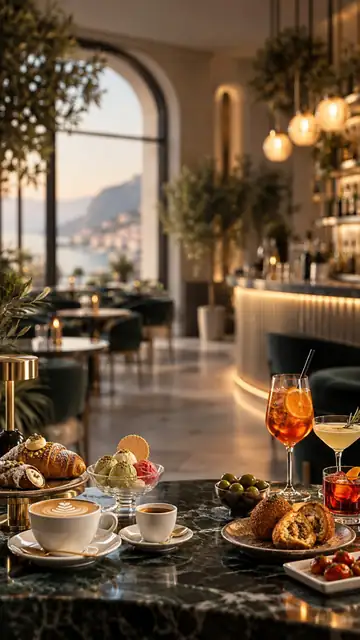
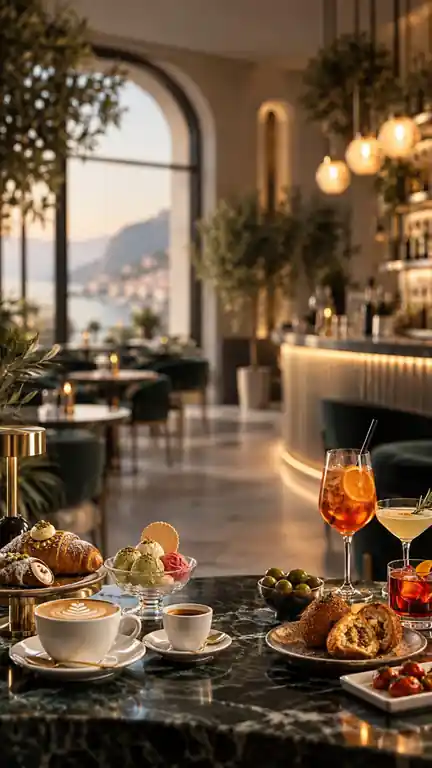
Install selected Bar extra background

diff --git a/personalizza.html b/personalizza.html
@@ -578,7 +578,7 @@ previewBtn.addEventListener("click", async () => {
       const backgroundDataUrl = await loadBackgroundDataUrl("Sfondobar.png");
       previewHtml = buildBarTemplate(logoDataUrl, reviewUrl, backgroundDataUrl);
     } else if (type === "barextra") {
-      const backgroundDataUrl = await loadBackgroundDataUrl("Sfondobarextra.webp?v=20260911-0015");
+      const backgroundDataUrl = await loadBackgroundDataUrl("Sfondobarextra.webp?v=20260911-0035");
       previewHtml = buildPremiumTemplate(logoDataUrl, reviewUrl, backgroundDataUrl, {title:"Le nostre specialità ti hanno conquistato?", accent:"#ead9bd", accent2:"#c9ae84", theme:"#18221f", box:"rgba(18,20,18,.40)", text:"#ffffff", message:"Dalla colazione all’aperitivo, prepariamo ogni giorno delizie e prodotti genuini per rendere speciale ogni momento. Raccontaci la tua esperienza! Bastano 2 secondi!", shift:"none", footerSize:"9px", footerStrong:"18px"});
       previewHtml = previewHtml.replace("<body>", `<body><img class="barextra-scene" src="${backgroundDataUrl}" alt="">`);
       previewHtml = previewHtml.replace("</head>", `<style id="barextra-layout-standard">html{background:#18221f!important}body{background-color:#18221f!important;overflow-x:hidden!important}.barextra-scene{position:fixed!important;inset:0!important;width:100vw!important;height:100vh!important;height:100dvh!important;object-fit:cover!important;object-position:center top!important;z-index:0!important;pointer-events:none!important}.pagina{position:relative!important;z-index:1!important;background-color:transparent!important}.pagina:before,.pagina:after{display:none!important;content:none!important;background:none!important}.logo{background:transparent!important;border:none!important;box-shadow:none!important;padding:0!important;border-radius:0!important;max-height:108px!important;width:min(220px,58vw)!important;object-fit:contain!important;margin-bottom:clamp(62px,9vh,96px)!important;filter:drop-shadow(0 6px 16px rgba(0,0,0,.55))!important}.eyebrow{max-width:455px!important;margin:0 auto 11px!important;font-size:clamp(18px,4.2vw,25px)!important;line-height:1.12!important;letter-spacing:.055em!important;color:#fff!important;text-shadow:0 3px 15px rgba(0,0,0,.92)!important}.messaggio-box{max-width:455px!important;margin:0 auto 14px!important;padding:11px 14px!important;border-radius:16px!important;background:rgba(16,18,16,.40)!important;border:1px solid rgba(255,255,255,.28)!important}.messaggio{font-size:clamp(14px,3.3vw,16px)!important;line-height:1.36!important;font-weight:650!important}.bottone-google{width:auto!important;min-width:190px!important;min-height:44px!important;padding:9px 24px!important;border-radius:999px!important;background:rgba(245,236,220,.80)!important;color:#4c3927!important;border:1px solid rgba(255,255,255,.72)!important;box-shadow:0 8px 20px rgba(0,0,0,.18)!important;font-size:15px!important;font-weight:850!important;animation:none!important}.bottone-google:before,.bottone-google:after{display:none!important;content:none!important}.stelle{margin-top:13px!important;font-size:30px!important;letter-spacing:.17em!important;color:#ffd552!important;text-shadow:0 0 8px rgba(255,213,82,.95),0 0 22px rgba(255,170,55,.72),0 4px 12px rgba(0,0,0,.62)!important}footer{color:rgba(255,255,255,.92)!important}footer strong{color:#f5dca8!important}</style>` + "</head>");

diff --git a/cliente.html b/cliente.html
@@ -25,7 +25,7 @@ const SUPABASE_URL='https://rqzgdgdoulgjwlxtdxhi.supabase.co';
 const KEY='sb_publishable_Hc_FOVPSOkuNC-mz25VknA_5O0fWJ6p';
 const slug=new URLSearchParams(location.search).get('c')||'';
 const bg={
-abbigliamento:'Sfondoabbigliamento.png',autolavaggio:'Sfondoautolavaggio.png',bar:'Sfondobar.png',barextra:'Sfondobarextra.webp',barbershop:'Sfondobarbershop.jpg',cartolibreria:'Sfondocartolibreria.png',centroestetico:'Sfondocentroestetico.jpg',detersivi:'Sfondodetersivi.jpg',farmacia:'Sfondofarmacia.jpg',fitness:'Sfondofitness.jpg',gelateria:'Sfondogelateria.jpg',gioielleria:'Sfondogioielleria.png',macelleria:'Sfondomacelleria.png',ottica:'Sfondoottica.png',panificio:'Sfondopanificio.webp',panineria_hamburgeria:'Sfondopanineria.png',hamburgeria:'Sfondopanineria.png',parrucchiere:'Sfondoparrucchiere.jpg',pasticceria:'Sfondopasticceria.jpg',pizzeria:'Sfondopizzeria.jpg',polli_spiedo:'SfondopollialloSpiedo.png',pub:'Sfondopub.jpg',ristorante:'Sfondoristorante.png',ristorantemare:'Sfondoristorantemare.png',stabilimento:'Sfondostabilimento.jpg',strumentimusicali:'Sfondostrumentimusicali.png',svapostore:'Sfondosvapostore.png',veterinario:'Sfondoveterinario.png',yogurteria:'Sfondoyogurteria.jpg'};
+abbigliamento:'Sfondoabbigliamento.png',autolavaggio:'Sfondoautolavaggio.png',bar:'Sfondobar.png',barextra:'Sfondobarextra.webp?v=20260911-0035',barbershop:'Sfondobarbershop.jpg',cartolibreria:'Sfondocartolibreria.png',centroestetico:'Sfondocentroestetico.jpg',detersivi:'Sfondodetersivi.jpg',farmacia:'Sfondofarmacia.jpg',fitness:'Sfondofitness.jpg',gelateria:'Sfondogelateria.jpg',gioielleria:'Sfondogioielleria.png',macelleria:'Sfondomacelleria.png',ottica:'Sfondoottica.png',panificio:'Sfondopanificio.webp',panineria_hamburgeria:'Sfondopanineria.png',hamburgeria:'Sfondopanineria.png',parrucchiere:'Sfondoparrucchiere.jpg',pasticceria:'Sfondopasticceria.jpg',pizzeria:'Sfondopizzeria.jpg',polli_spiedo:'SfondopollialloSpiedo.png',pub:'Sfondopub.jpg',ristorante:'Sfondoristorante.png',ristorantemare:'Sfondoristorantemare.png',stabilimento:'Sfondostabilimento.jpg',strumentimusicali:'Sfondostrumentimusicali.png',svapostore:'Sfondosvapostore.png',veterinario:'Sfondoveterinario.png',yogurteria:'Sfondoyogurteria.jpg'};
 const copy={
 abbigliamento:['IL TUO STILE MERITA 5 STELLE?','La tua opinione ci aiuta a migliorare ogni giorno stile, assortimento e servizio. Raccontaci la tua esperienza! Bastano 2 secondi!'],
 autolavaggio:['LA TUA AUTO SPLENDE COME MERITA?','La tua opinione ci aiuta a migliorare ogni giorno qualità, cura e servizio. Raccontaci la tua esperienza! Bastano 2 secondi!'],
